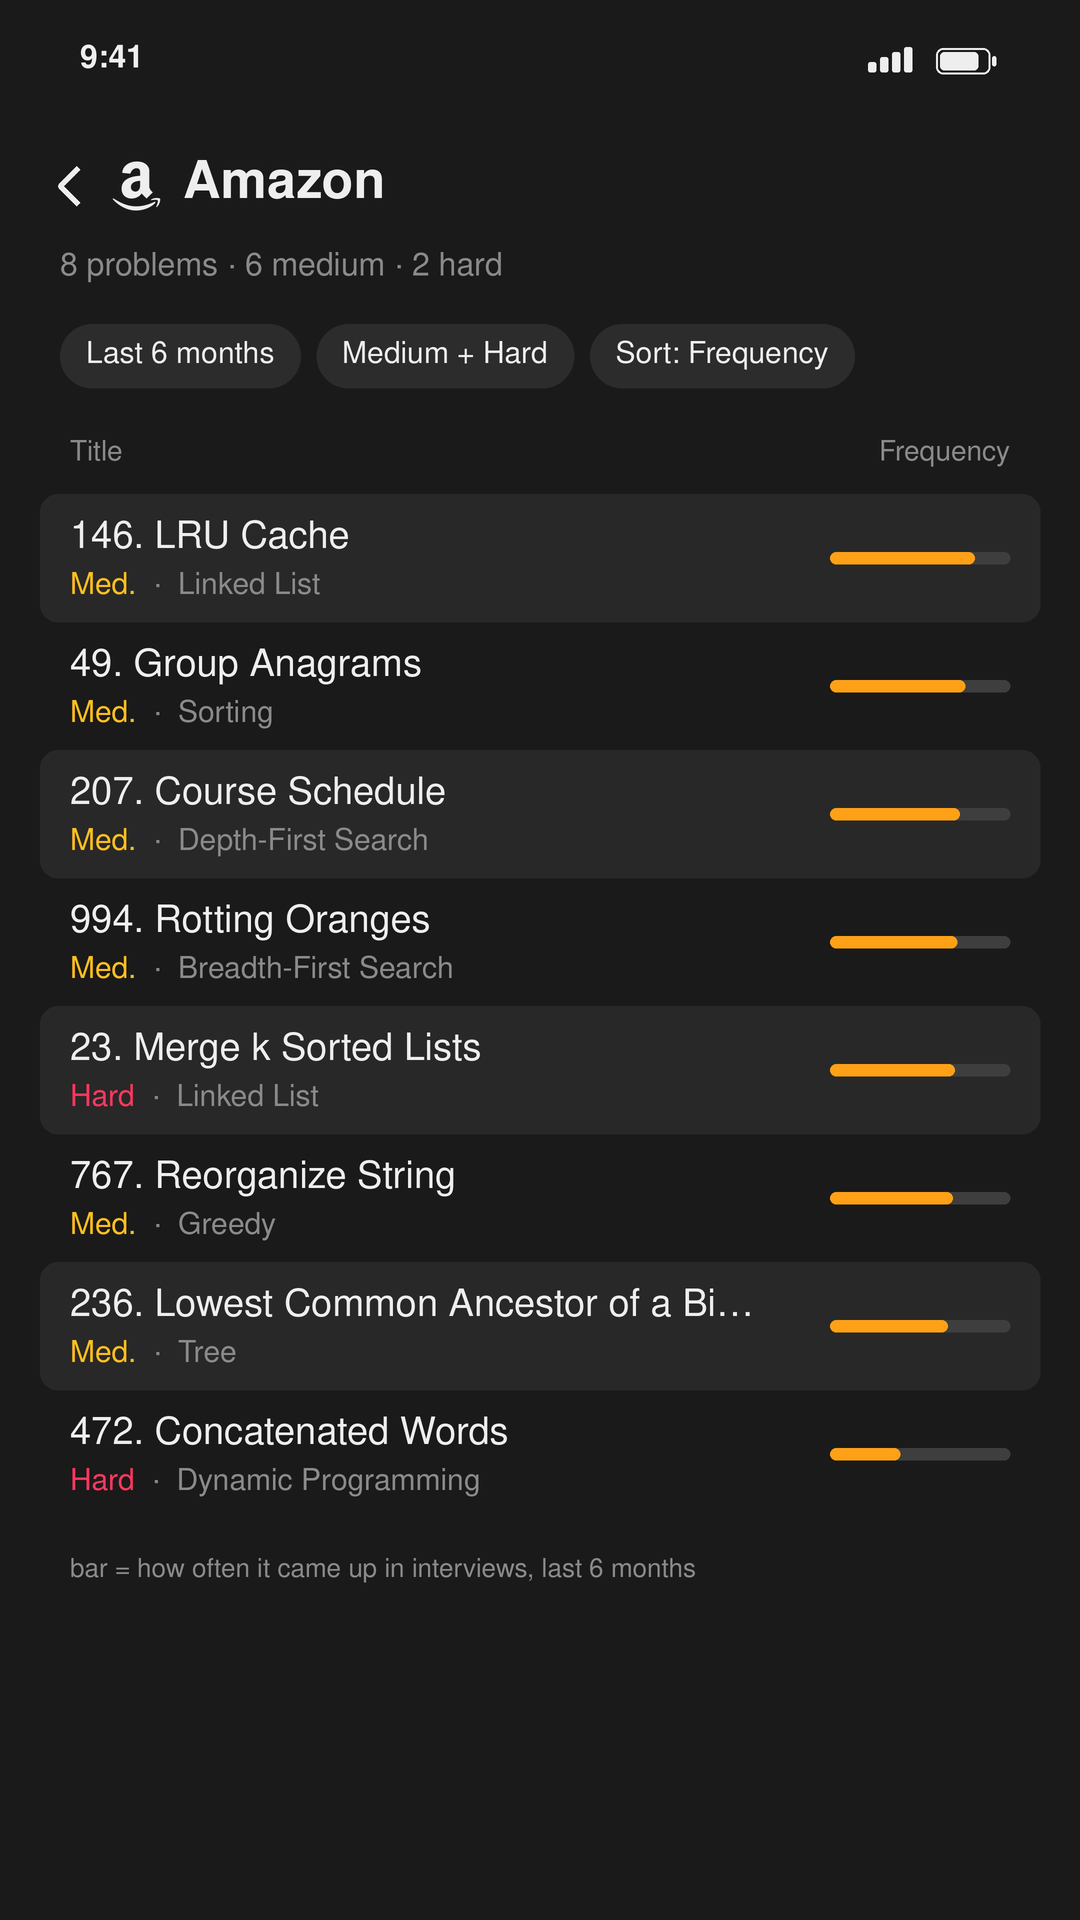
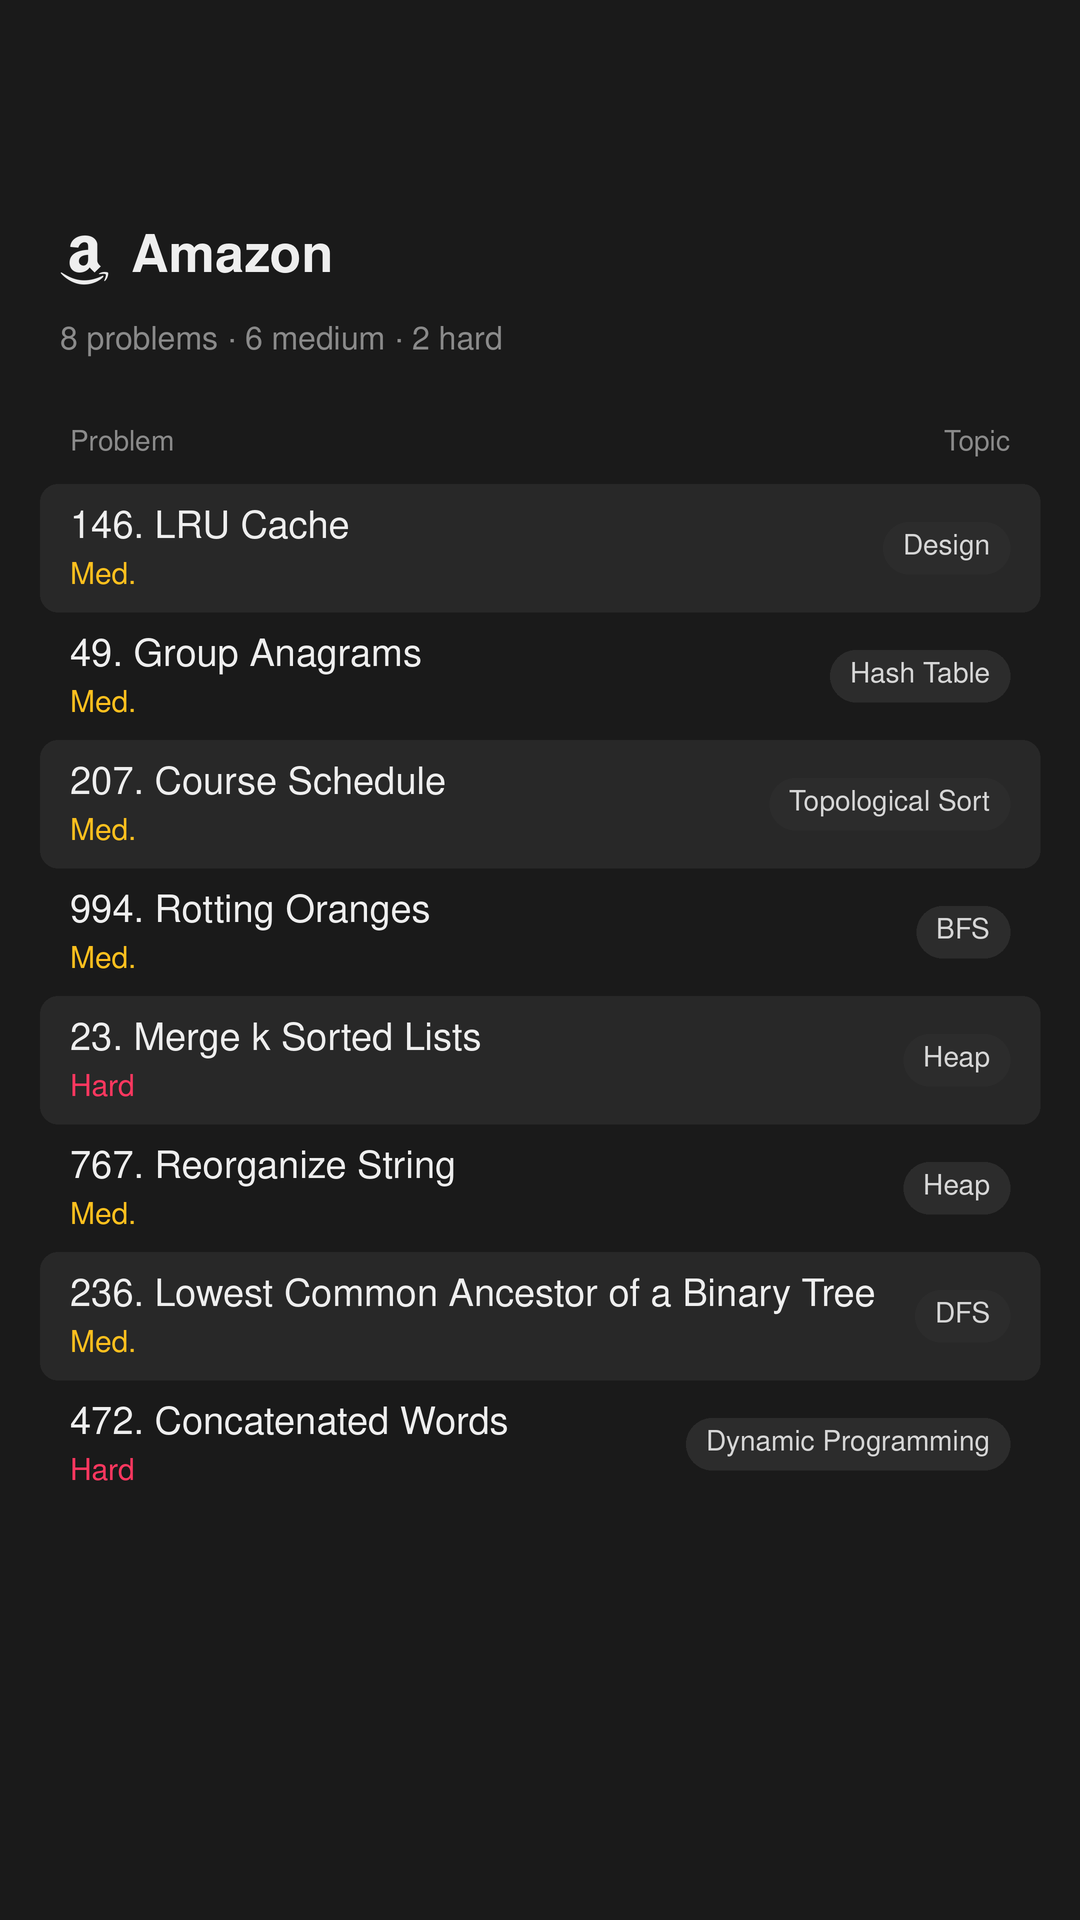
Solve these: drop phone UI and frequency, show topic tags
Claude-Session: https://claude.ai/code/session_01Xo7HnJGz5n5KZLb1Sbzz9R

diff --git a/solve-these/make_solve.py b/solve-these/make_solve.py
@@ -36,8 +36,7 @@ ROW_ALT = (40, 40, 40)
 CHIP = (44, 44, 44)
 TEXT = (238, 238, 238)
 MUTED = (138, 138, 138)
-TRACK = (62, 62, 62)
-BAR = (255, 161, 22)
+TAG_TEXT = (214, 214, 214)
 DIFF = {"Easy": ("Easy", (0, 184, 163)), "Medium": ("Med.", (255, 192, 30)), "Hard": ("Hard", (255, 55, 95))}
 
 
@@ -87,66 +86,40 @@ def truncate(f, text, max_w):
     return text.rstrip() + "…"
 
 
-def status_bar(d):
-    d.text((80 * S, 44 * S), "9:41", font=font("bold", 32), fill=TEXT)
-    x = 868
-    for i, h in enumerate((10, 15, 20, 25)):  # signal bars
-        d.rounded_rectangle(((x + i * 12) * S, (72 - h) * S, (x + i * 12 + 8) * S, 72 * S), 2 * S, fill=TEXT)
-    d.rounded_rectangle((936 * S, 48 * S, 990 * S, 74 * S), 7 * S, outline=TEXT, width=2 * S)
-    d.rounded_rectangle((940 * S, 52 * S, 978 * S, 70 * S), 4 * S, fill=TEXT)
-    d.rounded_rectangle((992 * S, 56 * S, 996 * S, 66 * S), 2 * S, fill=TEXT)
-
-
-def chip(d, x, y, label):
-    f = font("regular", 30)
-    w = f.getlength(label) / S + 52
-    d.rounded_rectangle((x * S, y * S, (x + w) * S, (y + 64) * S), 32 * S, fill=CHIP)
-    d.text(((x + w / 2) * S, (y + 32) * S), label, font=f, fill=TEXT, anchor="mm")
-    return x + w + 16
+def pill(d, right, cy, label):
+    f = font("regular", 28)
+    w = f.getlength(label) / S + 40
+    d.rounded_rectangle(((right - w) * S, (cy - 26) * S, right * S, (cy + 26) * S), 26 * S, fill=CHIP)
+    d.text(((right - w / 2) * S, cy * S), label, font=f, fill=TAG_TEXT, anchor="mm")
+    return right - w
 
 
 def render_list(company, problems):
     img = Image.new("RGBA", (W * S, H * S), LIST_BG + (255,))
     d = ImageDraw.Draw(img)
-    status_bar(d)
 
-    # back chevron
-    d.line([(78 * S, 168 * S), (60 * S, 186 * S), (78 * S, 204 * S)], fill=TEXT, width=5 * S, joint="curve")
     logo = mark(company, 56, TEXT, 1.0)
-    img.alpha_composite(logo, (112 * S, round((186 - 28) * S)))
-    d.text(((112 + logo.width / S + 22) * S, 186 * S), NAMES[company], font=font("bold", 52), fill=TEXT, anchor="lm")
+    img.alpha_composite(logo, (60 * S, round((260 - 28) * S)))
+    d.text(((60 + logo.width / S + 22) * S, 260 * S), NAMES[company], font=font("bold", 52), fill=TEXT, anchor="lm")
     hard = sum(p["difficulty"] == "Hard" for p in problems)
     sub = f"{len(problems)} problems · {len(problems) - hard} medium · {hard} hard"
-    d.text((60 * S, 252 * S), sub, font=font("regular", 32), fill=MUTED)
-
-    x = 60
-    for label in ("Last 6 months", "Medium + Hard", "Sort: Frequency"):
-        x = chip(d, x, 324, label)
+    d.text((60 * S, 326 * S), sub, font=font("regular", 32), fill=MUTED)
 
     small = font("regular", 28)
-    d.text((70 * S, 440 * S), "Title", font=small, fill=MUTED)
-    d.text((1010 * S, 440 * S), "Frequency", font=small, fill=MUTED, anchor="ra")
+    d.text((70 * S, 430 * S), "Problem", font=small, fill=MUTED)
+    d.text((1010 * S, 430 * S), "Topic", font=small, fill=MUTED, anchor="ra")
 
     title_f, meta_f = font("regular", 38), font("regular", 30)
-    y0, row_h = 494, 128
+    y0, row_h = 484, 128
     for i, p in enumerate(problems):
         top = y0 + i * row_h
         if i % 2 == 0:
             d.rounded_rectangle((40 * S, top * S, 1040 * S, (top + row_h) * S), 18 * S, fill=ROW_ALT)
-        title = truncate(title_f, f"{p['id']}. {p['title']}", 690 * S)
+        tag_left = pill(d, 1010, top + row_h / 2, p["topic"])
+        title = truncate(title_f, f"{p['id']}. {p['title']}", (tag_left - 30 - 70) * S)
         d.text((70 * S, (top + 26) * S), title, font=title_f, fill=TEXT)
         label, color = DIFF[p["difficulty"]]
         d.text((70 * S, (top + 78) * S), label, font=meta_f, fill=color)
-        d.text((70 * S + meta_f.getlength(label + "  "), (top + 78) * S), "·  " + p["topic"], font=meta_f, fill=MUTED)
-        cy = top + row_h / 2
-        bx0, bx1 = 830, 1010
-        d.rounded_rectangle((bx0 * S, (cy - 6) * S, bx1 * S, (cy + 6) * S), 6 * S, fill=TRACK)
-        fill_to = bx0 + (bx1 - bx0) * max(p["frequency"], 6) / 100
-        d.rounded_rectangle((bx0 * S, (cy - 6) * S, fill_to * S, (cy + 6) * S), 6 * S, fill=BAR)
-
-    note_y = y0 + len(problems) * row_h + 40
-    d.text((70 * S, note_y * S), "bar = how often it came up in interviews, last 6 months",
-           font=font("regular", 26), fill=MUTED)
     return finish(img, ROOT / "output" / company / "2-problems.png")
 
 

diff --git a/solve-these/README.md b/solve-these/README.md
@@ -8,10 +8,11 @@ Edit `problems.json` or the `COVERS` text in `make_solve.py`, then run `python3 
 
 ## Data
 
-Problems and frequency come from the community dataset
+Problems were picked from the community dataset
 [liquidslr/interview-company-wise-problems](https://github.com/liquidslr/interview-company-wise-problems)
-("Six Months" lists). Frequency is that dataset's 0–100 relative score, not an official LeetCode count.
+("Six Months" lists), favouring problems each company asks more often than the other two so the posts don't repeat.
+The list shows no frequency numbers because they can't be verified. Each problem gets one topic tag
+(BFS, DFS, Two Pointers, Dynamic Programming, ...), chosen from that problem's own LeetCode tags.
 Problem numbers come from [krishnadey30/LeetCode-Questions-CompanyWise](https://github.com/krishnadey30/LeetCode-Questions-CompanyWise).
-Each company's list favours problems that company asks more often than the other two, so the posts don't repeat.
 
 Logos: Font Awesome Free brand icons (`@iconify-json/fa6-brands`). Font: Nimbus Sans (Helvetica clone).
